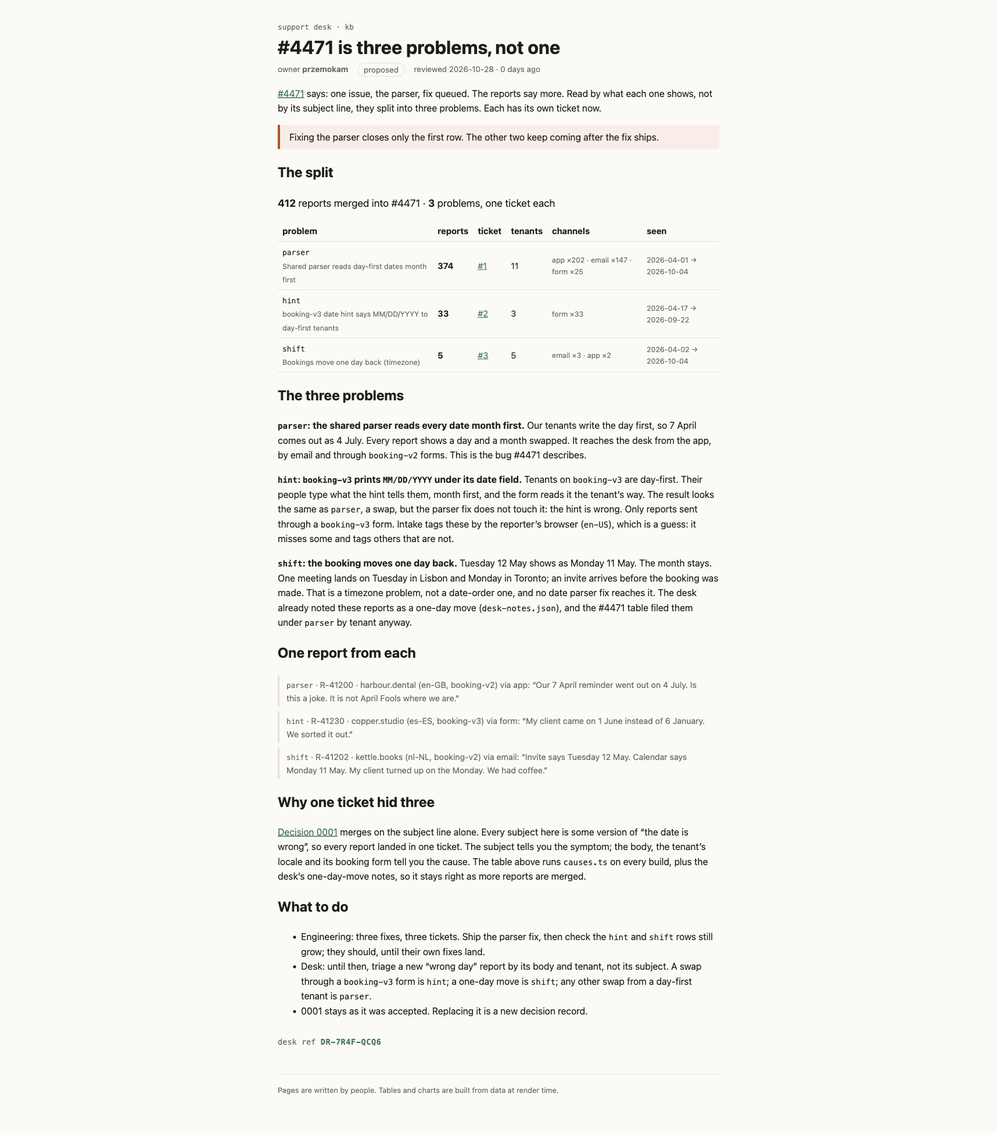
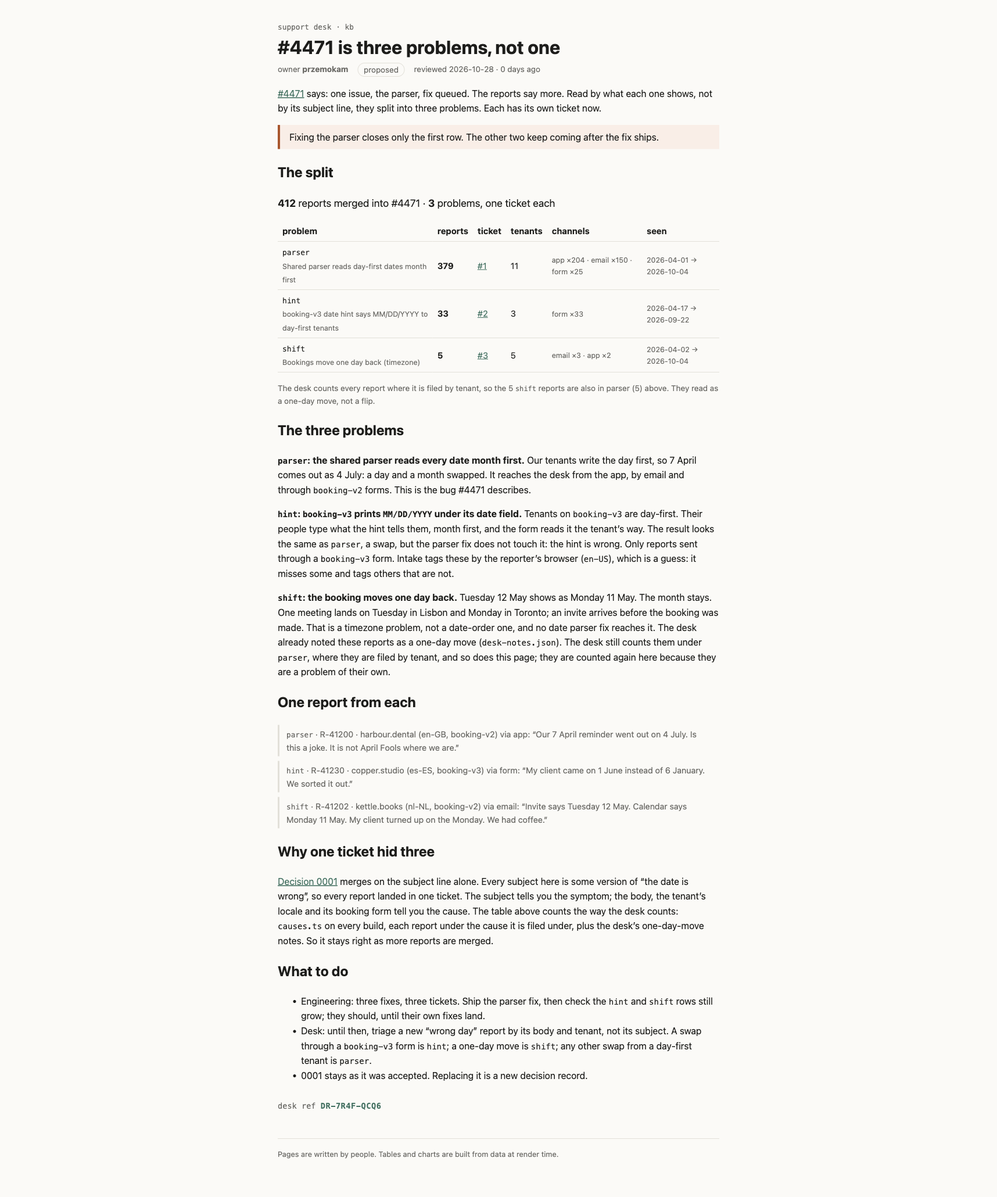
Count #4471 split the way the desk counts (parser 379)

Changed region(s): [[0.278, 0.0308, 0.7104, 0.9231], [0.6486, 0.1846, 0.7104, 0.3385], [0.278, 0.9538, 0.3706, 0.9846]]

diff --git a/rendered/kb/incidents/4471/split/index.html b/rendered/kb/incidents/4471/split/index.html
@@ -9,11 +9,11 @@
 		<link href="../../../../_app/immutable/chunks/B2Ul7l_u.js" rel="modulepreload">
 		<link href="../../../../_app/immutable/chunks/BCPXOG7W.js" rel="modulepreload">
 		<link href="../../../../_app/immutable/chunks/Dh1V97Jm.js" rel="modulepreload">
-		<link href="../../../../_app/immutable/entry/app.BCwEFEkI.js" rel="modulepreload">
+		<link href="../../../../_app/immutable/entry/app.BeCJ2vZF.js" rel="modulepreload">
 		<link href="../../../../_app/immutable/nodes/0.BurGglGN.js" rel="modulepreload">
 		<link href="../../../../_app/immutable/chunks/DK3Fl9T5.js" rel="modulepreload">
-		<link href="../../../../_app/immutable/nodes/5.KMLEdOeV.js" rel="modulepreload">
-		<link href="../../../../_app/immutable/chunks/DQZRbwuU.js" rel="modulepreload">
+		<link href="../../../../_app/immutable/nodes/5.DALyAv9D.js" rel="modulepreload">
+		<link href="../../../../_app/immutable/chunks/CnQlH-gI.js" rel="modulepreload">
 		<link href="../../../../_app/immutable/chunks/BTPwLomz.js" rel="modulepreload">
 		<link href="../../../../_app/immutable/chunks/CVBzP17p.js" rel="modulepreload">
 		<link href="../../../../_app/immutable/chunks/BIy4WKJS.js" rel="modulepreload">
@@ -25,8 +25,9 @@
   <body data-sveltekit-preload-data="hover">
     <div style="display: contents"><!--[--><!--[--><!--[0--><!--[--><!--[--><!--[-1--><!--[--><div class="kb svelte-e2jw2j"><header><a class="crumb svelte-e2jw2j" href="/kb">support desk · kb</a> <h1 class="svelte-e2jw2j">#4471 is three problems, not one</h1> <p class="meta svelte-e2jw2j"><span>owner <b>przemokam</b></span> <span class="status proposed svelte-e2jw2j">proposed</span> <span class="svelte-e2jw2j">reviewed 2026-10-28 · 0 days ago</span></p></header> <!--[-1--><!--]--> <main><p><a href="/kb/incidents/4471">#4471</a> says: one issue, the parser, fix queued. The reports say more.
 Read by what each one shows, not by its subject line, they split into three problems.
-Each has its own ticket now.</p> <aside class="warn svelte-17bri61"><!---->Fixing the parser closes only the first row. The other two keep coming after the fix ships.<!----></aside><!----> <h2>The split</h2> <!--[0--><p class="sum svelte-h3x27m"><strong>412</strong> reports merged into #4471 · <strong>3</strong> problems, one ticket each</p> <table><thead><tr><th>problem</th><th>reports</th><th>ticket</th><th>tenants</th><th>channels</th><th>seen</th></tr></thead><tbody><!--[--><tr class="svelte-h3x27m"><td class="svelte-h3x27m"><code>parser</code><!--[0--><br/><span class="title svelte-h3x27m">Shared parser reads day-first dates month first</span><!--]--></td><td class="svelte-h3x27m"><strong>374</strong></td><td class="svelte-h3x27m"><!--[0--><a href="https://github.com/przemokam/mega-what-it-shows/issues/1">#1</a><!--]--></td><td class="svelte-h3x27m">11</td><td class="small svelte-h3x27m">app ×202 · email ×147 · form ×25</td><td class="small svelte-h3x27m">2026-04-01 → 2026-10-04</td></tr><tr class="svelte-h3x27m"><td class="svelte-h3x27m"><code>hint</code><!--[0--><br/><span class="title svelte-h3x27m">booking-v3 date hint says MM/DD/YYYY to day-first tenants</span><!--]--></td><td class="svelte-h3x27m"><strong>33</strong></td><td class="svelte-h3x27m"><!--[0--><a href="https://github.com/przemokam/mega-what-it-shows/issues/2">#2</a><!--]--></td><td class="svelte-h3x27m">3</td><td class="small svelte-h3x27m">form ×33</td><td class="small svelte-h3x27m">2026-04-17 → 2026-09-22</td></tr><tr class="svelte-h3x27m"><td class="svelte-h3x27m"><code>shift</code><!--[0--><br/><span class="title svelte-h3x27m">Bookings move one day back (timezone)</span><!--]--></td><td class="svelte-h3x27m"><strong>5</strong></td><td class="svelte-h3x27m"><!--[0--><a href="https://github.com/przemokam/mega-what-it-shows/issues/3">#3</a><!--]--></td><td class="svelte-h3x27m">5</td><td class="small svelte-h3x27m">email ×3 · app ×2</td><td class="small svelte-h3x27m">2026-04-02 → 2026-10-04</td></tr><!--]--></tbody></table><!--]--><!----> <h2>The three problems</h2> <p><strong><code>parser</code>: the shared parser reads every date month first.</strong> Our tenants write the day first,
-so 7 April comes out as 4 July. Every report shows a day and a month swapped. It reaches the
+Each has its own ticket now.</p> <aside class="warn svelte-17bri61"><!---->Fixing the parser closes only the first row. The other two keep coming after the fix ships.<!----></aside><!----> <h2>The split</h2> <!--[0--><p class="sum svelte-h3x27m"><strong>412</strong> reports merged into #4471 · <strong>3</strong> problems, one ticket each</p> <table><thead><tr><th>problem</th><th>reports</th><th>ticket</th><th>tenants</th><th>channels</th><th>seen</th></tr></thead><tbody><!--[--><tr class="svelte-h3x27m"><td class="svelte-h3x27m"><code>parser</code><!--[0--><br/><span class="title svelte-h3x27m">Shared parser reads day-first dates month first</span><!--]--></td><td class="svelte-h3x27m"><strong>379</strong></td><td class="svelte-h3x27m"><!--[0--><a href="https://github.com/przemokam/mega-what-it-shows/issues/1">#1</a><!--]--></td><td class="svelte-h3x27m">11</td><td class="small svelte-h3x27m">app ×204 · email ×150 · form ×25</td><td class="small svelte-h3x27m">2026-04-01 → 2026-10-04</td></tr><tr class="svelte-h3x27m"><td class="svelte-h3x27m"><code>hint</code><!--[0--><br/><span class="title svelte-h3x27m">booking-v3 date hint says MM/DD/YYYY to day-first tenants</span><!--]--></td><td class="svelte-h3x27m"><strong>33</strong></td><td class="svelte-h3x27m"><!--[0--><a href="https://github.com/przemokam/mega-what-it-shows/issues/2">#2</a><!--]--></td><td class="svelte-h3x27m">3</td><td class="small svelte-h3x27m">form ×33</td><td class="small svelte-h3x27m">2026-04-17 → 2026-09-22</td></tr><tr class="svelte-h3x27m"><td class="svelte-h3x27m"><code>shift</code><!--[0--><br/><span class="title svelte-h3x27m">Bookings move one day back (timezone)</span><!--]--></td><td class="svelte-h3x27m"><strong>5</strong></td><td class="svelte-h3x27m"><!--[0--><a href="https://github.com/przemokam/mega-what-it-shows/issues/3">#3</a><!--]--></td><td class="svelte-h3x27m">5</td><td class="small svelte-h3x27m">email ×3 · app ×2</td><td class="small svelte-h3x27m">2026-04-02 → 2026-10-04</td></tr><!--]--></tbody></table> <!--[--><p class="small svelte-h3x27m">The desk counts every report where it is filed by tenant, so the 5 <code>shift</code> reports are also
+    in parser (5) above. They read as a one-day move, not a flip.</p><!--]--><!--]--><!----> <h2>The three problems</h2> <p><strong><code>parser</code>: the shared parser reads every date month first.</strong> Our tenants write the day first,
+so 7 April comes out as 4 July: a day and a month swapped. It reaches the
 desk from the app, by email and through <code>booking-v2</code> forms. This is the bug #4471 describes.</p> <p><strong><code>hint</code>: <code>booking-v3</code> prints <code>MM/DD/YYYY</code> under its date field.</strong> Tenants on <code>booking-v3</code> are
 day-first. Their people type what the hint tells them, month first, and the form reads it the
 tenant’s way. The result looks the same as <code>parser</code>, a swap, but the parser fix does not touch
@@ -35,29 +36,31 @@ reporter’s browser (<code>en-US</code>), which is a guess: it misses some and 
 month stays. One meeting lands on Tuesday in Lisbon and Monday in Toronto; an invite arrives
 before the booking was made. That is a timezone problem, not a date-order one, and no date
 parser fix reaches it. The desk already noted these reports as a one-day move
-(<code>desk-notes.json</code>), and the #4471 table filed them under <code>parser</code> by tenant anyway.</p> <h2>One report from each</h2> <!--[-1--><!--[--><blockquote class="svelte-h3x27m"><code>parser</code> · R-41200 · harbour.dental (en-GB, booking-v2) via app:
+(<code>desk-notes.json</code>). The desk still counts them under <code>parser</code>, where they are filed by tenant, and so
+does this page; they are counted again here because they are a problem of their own.</p> <h2>One report from each</h2> <!--[-1--><!--[--><blockquote class="svelte-h3x27m"><code>parser</code> · R-41200 · harbour.dental (en-GB, booking-v2) via app:
       “Our 7 April reminder went out on 4 July. Is this a joke. It is not April Fools where we are.”</blockquote><blockquote class="svelte-h3x27m"><code>hint</code> · R-41230 · copper.studio (es-ES, booking-v3) via form:
       “My client came on 1 June instead of 6 January. We sorted it out.”</blockquote><blockquote class="svelte-h3x27m"><code>shift</code> · R-41202 · kettle.books (nl-NL, booking-v2) via email:
       “Invite says Tuesday 12 May. Calendar says Monday 11 May. My client turned up on the Monday. We had coffee.”</blockquote><!--]--><!--]--><!----> <h2>Why one ticket hid three</h2> <p><a href="/kb/decisions/0001-dedupe-by-subject">Decision 0001</a> merges on the subject line alone.
 Every subject here is some version of “the date is wrong”, so every report landed in one ticket. The
 subject tells you the symptom; the body, the tenant’s locale and its booking form tell you the
-cause. The table above runs <code>causes.ts</code> on every build, plus the desk’s one-day-move notes, so
-it stays right as more reports are merged.</p> <h2>What to do</h2> <ul><li>Engineering: three fixes, three tickets. Ship the parser fix, then check the <code>hint</code> and <code>shift</code> rows still grow; they should, until their own fixes land.</li> <li>Desk: until then, triage a new “wrong day” report by its body and tenant, not its subject.
+cause. The table above counts the way the desk counts: <code>causes.ts</code> on every build, each report
+under the cause it is filed under, plus the desk’s one-day-move notes. So it stays right as more
+reports are merged.</p> <h2>What to do</h2> <ul><li>Engineering: three fixes, three tickets. Ship the parser fix, then check the <code>hint</code> and <code>shift</code> rows still grow; they should, until their own fixes land.</li> <li>Desk: until then, triage a new “wrong day” report by its body and tenant, not its subject.
 A swap through a <code>booking-v3</code> form is <code>hint</code>; a one-day move is <code>shift</code>; any other swap from a
 day-first tenant is <code>parser</code>.</li> <li>0001 stays as it was accepted. Replacing it is a new decision record.</li></ul> <!--[0--><p class="stamp svelte-1280m42">desk ref <b class="svelte-1280m42">DR-7R4F-QCQ6</b></p><!--]--><!----><!----></main> <footer class="svelte-e2jw2j">Pages are written by people. Tables and charts are built from data at render time.</footer></div><!--]--><!--]--><!--]--><!----><!--]--><!--]--><!--]--><!----> <!--[-1--><!--]--><!--]-->
 			
 			<script>
 				{
-					__sveltekit_128iz2t = {
+					__sveltekit_gaf87u = {
 						base: new URL("../../../..", location).pathname.slice(0, -1),
-						version: "1793222955326"
+						version: "1793223802684"
 					};
 
 					const element = document.currentScript.parentElement;
 
 					import("../../../../_app/immutable/entry/start.CH5w6lId.js").then(async (kit) => {
-						kit.init(__sveltekit_128iz2t);
-						const app = await import("../../../../_app/immutable/entry/app.BCwEFEkI.js");
+						kit.init(__sveltekit_gaf87u);
+						const app = await import("../../../../_app/immutable/entry/app.BeCJ2vZF.js");
 						kit.start(app, element, {
 							node_ids: [0, 5],
 							data: [null,null],

diff --git a/rendered/_app/immutable/chunks/CnQlH-gI.js b/rendered/_app/immutable/chunks/CnQlH-gI.js
@@ -1,0 +1,23 @@
+import{t as e}from"./DK3Fl9T5.js";import{E as t,F as n,H as r,I as i,K as a,L as o,N as s,O as c,R as l,S as u,T as d,U as f,W as p,_ as m,c as h,d as g,h as _,k as v,n as y,q as b,r as x,t as S,w as C}from"./BCPXOG7W.js";import{t as w}from"./BTPwLomz.js";import{n as T,t as E}from"./CVBzP17p.js";import{i as D,l as O,r as k,t as A}from"./BIy4WKJS.js";var j=[{problem:`parser`,title:`Shared parser reads day-first dates month first`,issue:1},{problem:`hint`,title:`booking-v3 date hint says MM/DD/YYYY to day-first tenants`,issue:2},{problem:`shift`,title:`Bookings move one day back (timezone)`,issue:3}];function M(e,t,n){let r=t.map(e=>e.receivedAt.slice(0,10)).sort();return{problem:e,reports:t,tenants:[...new Set(t.map(e=>e.tenant))].sort(),channels:t.reduce((e,t)=>({...e,[t.channel]:(e[t.channel]??0)+1}),{}),firstSeen:r[0],lastSeen:r[r.length-1],alsoFiled:e===`shift`?t.reduce((e,t)=>({...e,[n(t)]:(e[n(t)]??0)+1}),{}):{}}}function N(e,t,n,r){let i=O(e).filter(e=>e.mergedInto===t),a=e=>D(e,n(e))??`unplaced`;return{merged:i,groups:[M(`parser`,i.filter(e=>a(e)===`parser`),a),M(`hint`,i.filter(e=>a(e)===`hint`),a),M(`shift`,i.filter(e=>r.includes(e.id)),a),M(`unplaced`,i.filter(e=>a(e)===`unplaced`),a)].filter(e=>e.reports.length>0)}}var P=t(`<br/><span class="title svelte-h3x27m"> </span>`,1),F=t(`<a> </a>`),I=t(`<tr><td class="svelte-h3x27m"><code> </code><!></td><td class="svelte-h3x27m"><strong> </strong></td><td class="svelte-h3x27m"><!></td><td class="svelte-h3x27m"> </td><td class="small svelte-h3x27m"> </td><td class="small svelte-h3x27m"> </td></tr>`),L=t(`<p class="small svelte-h3x27m"> <code>shift</code> </p>`),R=t(`<p class="sum svelte-h3x27m"><strong> </strong> <strong> </strong> </p> <table><thead><tr><th>problem</th><th>reports</th><th>ticket</th><th>tenants</th><th>channels</th><th>seen</th></tr></thead><tbody></tbody></table> <!>`,1),z=t(`<blockquote class="svelte-h3x27m"><code> </code> </blockquote>`);function B(e,t){p(t,!0);let a=y(t,`examples`,3,!1),x=r(()=>N(T,t.ticket,k,E.oneDayMove)),S=e=>j.find(t=>t.problem===e),w=e=>Object.entries(e).sort((e,t)=>t[1]-e[1]).map(([e,t])=>`${e} ×${t}`).join(` · `),D=r(()=>v(x).groups.filter(e=>S(e.problem)).length);var O=d(),A=i(O),M=e=>{var a=R(),d=i(a),f=n(d),p=o(f,!0),y=l(f),T=l(y),E=o(T,!0),O=l(T);b(d);var k=l(d,2),A=l(n(k));_(A,21,()=>v(x).groups,e=>e.problem,(e,t)=>{let a=r(()=>S(v(t).problem));var d=I();let f;var p=n(d),_=n(p),y=o(_,!0),x=l(_),T=e=>{var t=P(),n=l(i(t)),r=o(n,!0);s(()=>u(r,v(a).title)),C(e,t)};m(x,e=>{v(a)&&e(T)}),b(p);var E=l(p),D=n(E),O=o(D,!0);b(E);var k=l(E),A=n(k),j=e=>{var t=F(),n=o(t);s(()=>{h(t,`href`,`https://github.com/przemokam/mega-what-it-shows/issues/${v(a).issue??``}`),u(n,`#${v(a).issue??``}`)}),C(e,t)},M=e=>{var t=c(`none yet`);C(e,t)};m(A,e=>{v(a)?e(j):e(M,-1)}),b(k);var N=l(k),L=o(N,!0),R=l(N),z=o(R,!0),B=l(R),V=o(B);b(d),s(e=>{f=g(d,1,`svelte-h3x27m`,null,f,{unplaced:!v(a)}),u(y,v(t).problem),u(O,v(t).reports.length),u(L,v(t).tenants.length),u(z,e),u(V,`${v(t).firstSeen??``} → ${v(t).lastSeen??``}`)},[()=>w(v(t).channels)]),C(e,d)}),b(A),b(k);var j=l(k,2);_(j,17,()=>v(x).groups.filter(e=>e.problem===`shift`),e=>e.problem,(e,t)=>{var r=L(),i=n(r),a=l(i,2);b(r),s(e=>{u(i,`The desk counts every report where it is filed by tenant, so the ${v(t).reports.length??``} `),u(a,` reports are also
+    in ${e??``} above. They read as a one-day move, not a flip.`)},[()=>Object.entries(v(t).alsoFiled).map(([e,t])=>`${e} (${t})`).join(`, `)]),C(e,r)}),s(()=>{u(p,v(x).merged.length),u(y,` reports merged into #${t.ticket??``} · `),u(E,v(D)),u(O,` ${v(D)===1?`problem`:`problems`}, one ticket each`)}),C(e,a)},B=e=>{var t=d(),a=i(t);_(a,17,()=>v(x).groups,e=>e.problem,(e,t)=>{let i=r(()=>v(t).reports[0]);var a=z(),c=n(a),d=o(c,!0),f=l(c);b(a),s((e,n)=>{u(d,v(t).problem),u(f,` · ${v(i).id??``} · ${v(i).tenant??``} (${e??``}, ${n??``}) via ${v(i).channel??``}:
+      “${v(i).body??``}”`)},[()=>k(v(i))?.locale,()=>k(v(i))?.form]),C(e,a)}),C(e,t)};m(A,e=>{a()?e(B,-1):e(M)}),C(e,O),f()}var V=`0123456789ABCDEFGHJKMNPQRSTVWXYZ`;function H(e,t){let n=t>>>0;for(let t=0;t<e.length;t++)n^=e.charCodeAt(t),n=Math.imul(n,16777619)>>>0;return n}function U(e){let t=e.trim(),n=H(t,2166136261),r=H(t,2654435769),i=BigInt(n)<<8n|BigInt(r&255),a=``;for(let e=0;e<8;e++)a=V[Number(i&31n)]+a,i>>=5n;return`DR-${a.slice(0,4)}-${a.slice(4)}`}var W=t(`<p class="stamp svelte-1280m42">desk ref <b class="svelte-1280m42"> </b></p>`),G=t(`<p class="stamp missing svelte-1280m42">no desk ref: this page isn't signed (no <code>signature</code> in its frontmatter)</p>`);function K(e,t){p(t,!0);let a=r(()=>t.signature?U(t.signature):null);var c=d(),h=i(c),g=e=>{var t=W(),r=l(n(t)),i=o(r,!0);b(t),s(()=>u(i,v(a))),C(e,t)},_=e=>{var t=G();C(e,t)};m(h,e=>{v(a)?e(g):e(_,-1)}),C(e,c),f()}var q=e({default:()=>$,metadata:()=>J}),J={layout:`runbook`,title:`#4471 is three problems, not one`,owner:`przemokam`,status:`proposed`,reviewed:`2026-10-28T00:00:00.000Z`,signature:`Przemek Kamola (przemokam), with Claude Code`},{layout:Y,title:X,owner:ee,status:te,reviewed:ne,signature:Z}=J,Q=t(`<p><a href="/kb/incidents/4471">#4471</a> says: one issue, the parser, fix queued. The reports say more.
+Read by what each one shows, not by its subject line, they split into three problems.
+Each has its own ticket now.</p> <!> <h2>The split</h2> <!> <h2>The three problems</h2> <p><strong><code>parser</code>: the shared parser reads every date month first.</strong> Our tenants write the day first,
+so 7 April comes out as 4 July: a day and a month swapped. It reaches the
+desk from the app, by email and through <code>booking-v2</code> forms. This is the bug #4471 describes.</p> <p><strong><code>hint</code>: <code>booking-v3</code> prints <code>MM/DD/YYYY</code> under its date field.</strong> Tenants on <code>booking-v3</code> are
+day-first. Their people type what the hint tells them, month first, and the form reads it the
+tenant’s way. The result looks the same as <code>parser</code>, a swap, but the parser fix does not touch
+it: the hint is wrong. Only reports sent through a <code>booking-v3</code> form. Intake tags these by the
+reporter’s browser (<code>en-US</code>), which is a guess: it misses some and tags others that are not.</p> <p><strong><code>shift</code>: the booking moves one day back.</strong> Tuesday 12 May shows as Monday 11 May. The
+month stays. One meeting lands on Tuesday in Lisbon and Monday in Toronto; an invite arrives
+before the booking was made. That is a timezone problem, not a date-order one, and no date
+parser fix reaches it. The desk already noted these reports as a one-day move
+(<code>desk-notes.json</code>). The desk still counts them under <code>parser</code>, where they are filed by tenant, and so
+does this page; they are counted again here because they are a problem of their own.</p> <h2>One report from each</h2> <!> <h2>Why one ticket hid three</h2> <p><a href="/kb/decisions/0001-dedupe-by-subject">Decision 0001</a> merges on the subject line alone.
+Every subject here is some version of “the date is wrong”, so every report landed in one ticket. The
+subject tells you the symptom; the body, the tenant’s locale and its booking form tell you the
+cause. The table above counts the way the desk counts: <code>causes.ts</code> on every build, each report
+under the cause it is filed under, plus the desk’s one-day-move notes. So it stays right as more
+reports are merged.</p> <h2>What to do</h2> <ul><li>Engineering: three fixes, three tickets. Ship the parser fix, then check the <code>hint</code> and <code>shift</code> rows still grow; they should, until their own fixes land.</li> <li>Desk: until then, triage a new “wrong day” report by its body and tenant, not its subject.
+A swap through a <code>booking-v3</code> form is <code>hint</code>; a one-day move is <code>shift</code>; any other swap from a
+day-first tenant is <code>parser</code>.</li> <li>0001 stays as it was accepted. Replacing it is a new decision record.</li></ul> <!>`,1);function $(e,t){let n=S(t,[`children`,`$$slots`,`$$events`,`$$legacy`]);w(e,x(()=>n,()=>J,{children:(e,t)=>{var n=Q(),r=l(i(n),2);A(r,{kind:`warn`,children:(e,t)=>{a();var n=c(`Fixing the parser closes only the first row. The other two keep coming after the fix ships.`);C(e,n)},$$slots:{default:!0}});var o=l(r,4);B(o,{ticket:4471});var s=l(o,12);B(s,{ticket:4471,examples:!0}),K(l(s,10),{get signature(){return Z}}),C(e,n)},$$slots:{default:!0}}))}export{$ as n,q as t};

diff --git a/src/lib/kb/split.ts b/src/lib/kb/split.ts
@@ -12,14 +12,9 @@ export const PROBLEMS: readonly { problem: Problem; title: string; issue: number
 
 export const ISSUES = 'https://github.com/przemokam/mega-what-it-shows/issues';
 
-// A report the desk read as a one-day move (desk-notes.json) is not a flip: the day moved, the month
-// did not. That is its own problem, whatever its tenant's form says. Everything else keeps the cause
-// causes.ts gives it.
-export function problemOf(r: Report, t: Tenant | undefined, oneDayMove: readonly string[]): Problem | 'unplaced' {
-  if (oneDayMove.includes(r.id)) return 'shift';
-  return causeOf(r, t) ?? 'unplaced';
-}
-
+// Counted the way the desk counts (CauseTable, desk-notes.json): every report under the cause it is
+// filed under by tenant. A one-day move (desk-notes.json) is its own problem too: the day moved, the
+// month did not. Those reports also stay counted where they are filed, as the desk footnotes them.
 export type ProblemGroup = {
   problem: Problem | 'unplaced';
   reports: Report[];
@@ -27,7 +22,22 @@ export type ProblemGroup = {
   channels: Record<string, number>;
   firstSeen: string;
   lastSeen: string;
+  // For `shift`: how many of its reports are also counted under each filed cause.
+  alsoFiled: Record<string, number>;
 };
+
+function group(problem: ProblemGroup['problem'], rs: Report[], filed: (r: Report) => string): ProblemGroup {
+  const days = rs.map((r) => r.receivedAt.slice(0, 10)).sort();
+  return {
+    problem,
+    reports: rs,
+    tenants: [...new Set(rs.map((r) => r.tenant))].sort(),
+    channels: rs.reduce<Record<string, number>>((n, r) => ({ ...n, [r.channel]: (n[r.channel] ?? 0) + 1 }), {}),
+    firstSeen: days[0],
+    lastSeen: days[days.length - 1],
+    alsoFiled: problem === 'shift' ? rs.reduce<Record<string, number>>((n, r) => ({ ...n, [filed(r)]: (n[filed(r)] ?? 0) + 1 }), {}) : {},
+  };
+}
 
 export function splitTicket(
   all: Report[],
@@ -36,24 +46,12 @@ export function splitTicket(
   oneDayMove: readonly string[],
 ): { merged: Report[]; groups: ProblemGroup[] } {
   const merged = uniqueById(all).filter((r) => r.mergedInto === ticket);
-  const by = new Map<ProblemGroup['problem'], Report[]>();
-  for (const r of merged) {
-    const p = problemOf(r, tenantOf(r), oneDayMove);
-    by.set(p, [...(by.get(p) ?? []), r]);
-  }
-  const order = [...PROBLEMS.map((p) => p.problem), 'unplaced'];
-  const groups = [...by.entries()]
-    .map(([problem, rs]) => {
-      const days = rs.map((r) => r.receivedAt.slice(0, 10)).sort();
-      return {
-        problem,
-        reports: rs,
-        tenants: [...new Set(rs.map((r) => r.tenant))].sort(),
-        channels: rs.reduce<Record<string, number>>((n, r) => ({ ...n, [r.channel]: (n[r.channel] ?? 0) + 1 }), {}),
-        firstSeen: days[0],
-        lastSeen: days[days.length - 1],
-      };
-    })
-    .sort((a, b) => order.indexOf(a.problem) - order.indexOf(b.problem));
-  return { merged, groups };
+  const filed = (r: Report) => causeOf(r, tenantOf(r)) ?? 'unplaced';
+  const groups = [
+    group('parser', merged.filter((r) => filed(r) === 'parser'), filed),
+    group('hint', merged.filter((r) => filed(r) === 'hint'), filed),
+    group('shift', merged.filter((r) => oneDayMove.includes(r.id)), filed),
+    group('unplaced', merged.filter((r) => filed(r) === 'unplaced'), filed),
+  ];
+  return { merged, groups: groups.filter((g) => g.reports.length > 0) };
 }

diff --git a/rendered/_app/immutable/nodes/2.CABhyONg.js b/rendered/_app/immutable/nodes/2.CABhyONg.js
@@ -1,0 +1,2 @@
+import{E as e,F as t,I as n,K as r,L as i,N as a,R as o,S as s,U as c,W as l,c as u,d,h as f,i as p,k as m,q as h,r as g,t as _,w as v}from"../chunks/BCPXOG7W.js";import{n as y,r as b,t as x}from"../chunks/BTPwLomz.js";import{t as S}from"../chunks/YX22L_Ud.js";import{t as C}from"../chunks/CgeRC4yK.js";import{t as w}from"../chunks/CnQlH-gI.js";import{t as T}from"../chunks/BGqJVSDw.js";var E=e(`<tr><td><a> </a></td><td> </td><td> </td><td> </td></tr>`),D=e(`<table><thead><tr><th>page</th><th>owner</th><th>status</th><th>reviewed</th></tr></thead><tbody></tbody></table>`);function O(e,n){l(n,!1);let r=Object.entries(Object.assign({"/src/routes/kb/decisions/0001-dedupe-by-subject/+page.svx":S,"/src/routes/kb/incidents/4471/+page.svx":C,"/src/routes/kb/incidents/4471/split/+page.svx":w,"/src/routes/kb/triage/dedupe/+page.svx":T})).map(([e,t])=>({href:e.replace(`/src/routes`,``).replace(`/+page.svx`,``),...t.metadata})).sort((e,t)=>e.href.localeCompare(t.href));p();var g=D(),_=o(t(g));f(_,5,()=>r,e=>e.href,(e,n)=>{var r=E(),c=t(r),l=t(c),f=i(l,!0);h(c);var p=o(c),g=i(p,!0),_=o(p),x=i(_,!0),S=o(_);let C;var w=i(S,!0);h(r),a((e,t)=>{u(l,`href`,m(n).href),s(f,m(n).title),s(g,m(n).owner),s(x,m(n).status),C=d(S,1,`svelte-tbc1ha`,null,C,{stale:e}),s(w,t)},[()=>y(m(n).reviewed)>180,()=>b(m(n).reviewed)]),v(e,r)}),h(_),h(g),v(e,g),c()}var k={layout:`runbook`,title:`Support knowledge base`,owner:`support desk`,status:`living`,reviewed:`2026-09-28T00:00:00.000Z`},{layout:A,title:j,owner:M,status:N,reviewed:P}=k,F=e(`<p>What the support desk knows, kept next to the code that knows it. One desk, every product: <code>sched-prod</code> (calendar invites for about 300k people) and the rest. When something breaks, the reports land here first.</p> <p>Start with <a href="/kb/triage/dedupe">triage</a> if you are new on the desk.</p> <h2>Pages</h2> <!> <h2>Writing a page</h2> <p>Keep the words here and the logic in <code>src/lib</code>. A number that can be computed should be
+computed by a component, not typed into a paragraph.</p>`,1);function I(e,t){let i=_(t,[`children`,`$$slots`,`$$events`,`$$legacy`]);x(e,g(()=>i,()=>k,{children:(e,t)=>{var i=F();O(o(n(i),6),{}),r(4),v(e,i)},$$slots:{default:!0}}))}export{I as component};

diff --git a/rendered/kb/index.html b/rendered/kb/index.html
@@ -9,16 +9,16 @@
 		<link href="../_app/immutable/chunks/B2Ul7l_u.js" rel="modulepreload">
 		<link href="../_app/immutable/chunks/BCPXOG7W.js" rel="modulepreload">
 		<link href="../_app/immutable/chunks/Dh1V97Jm.js" rel="modulepreload">
-		<link href="../_app/immutable/entry/app.BCwEFEkI.js" rel="modulepreload">
+		<link href="../_app/immutable/entry/app.BeCJ2vZF.js" rel="modulepreload">
 		<link href="../_app/immutable/nodes/0.BurGglGN.js" rel="modulepreload">
 		<link href="../_app/immutable/chunks/DK3Fl9T5.js" rel="modulepreload">
-		<link href="../_app/immutable/nodes/2.B_ET221c.js" rel="modulepreload">
+		<link href="../_app/immutable/nodes/2.CABhyONg.js" rel="modulepreload">
 		<link href="../_app/immutable/chunks/BTPwLomz.js" rel="modulepreload">
 		<link href="../_app/immutable/chunks/YX22L_Ud.js" rel="modulepreload">
 		<link href="../_app/immutable/chunks/CgeRC4yK.js" rel="modulepreload">
 		<link href="../_app/immutable/chunks/CVBzP17p.js" rel="modulepreload">
 		<link href="../_app/immutable/chunks/BIy4WKJS.js" rel="modulepreload">
-		<link href="../_app/immutable/chunks/DQZRbwuU.js" rel="modulepreload">
+		<link href="../_app/immutable/chunks/CnQlH-gI.js" rel="modulepreload">
 		<link href="../_app/immutable/chunks/BGqJVSDw.js" rel="modulepreload">
 		<!--e2jw2j--><!----><title>Support knowledge base · support kb</title>
 		<link href="../_app/immutable/assets/runbook.COyw0cbZ.css" rel="stylesheet">
@@ -34,16 +34,16 @@ computed by a component, not typed into a paragraph.</p><!----></main> <footer c
 			
 			<script>
 				{
-					__sveltekit_128iz2t = {
+					__sveltekit_gaf87u = {
 						base: new URL("..", location).pathname.slice(0, -1),
-						version: "1793222955326"
+						version: "1793223802684"
 					};
 
 					const element = document.currentScript.parentElement;
 
 					import("../_app/immutable/entry/start.CH5w6lId.js").then(async (kit) => {
-						kit.init(__sveltekit_128iz2t);
-						const app = await import("../_app/immutable/entry/app.BCwEFEkI.js");
+						kit.init(__sveltekit_gaf87u);
+						const app = await import("../_app/immutable/entry/app.BeCJ2vZF.js");
 						kit.start(app, element, {
 							node_ids: [0, 2],
 							data: [null,null],

diff --git a/rendered/_app/immutable/entry/app.BeCJ2vZF.js b/rendered/_app/immutable/entry/app.BeCJ2vZF.js
@@ -1,0 +1,2 @@
+const __vite__mapDeps=(i,m=__vite__mapDeps,d=(m.f||(m.f=["../nodes/0.BurGglGN.js","../chunks/DK3Fl9T5.js","../chunks/BCPXOG7W.js","../nodes/1.mOwa9YdW.js","../chunks/Dh1V97Jm.js","./payload.DSmR2FwN.js","../nodes/2.CABhyONg.js","../chunks/BTPwLomz.js","../assets/runbook.COyw0cbZ.css","../chunks/YX22L_Ud.js","../chunks/CgeRC4yK.js","../chunks/CVBzP17p.js","../chunks/BIy4WKJS.js","../assets/Callout.AbLv9dM_.css","../assets/_page.D56XP2ro.css","../chunks/CnQlH-gI.js","../assets/_page.B0ht7lrD.css","../chunks/BGqJVSDw.js","../assets/_page.DO6Yid7X.css","../assets/2.Bt0MwIZg.css","../nodes/3.DRxPfvn3.js","../nodes/4.rt2PfD_4.js","../nodes/5.DALyAv9D.js","../nodes/6.sFtxrtyV.js"])))=>i.map(i=>d[i]);
+import{t as e}from"../chunks/CRzLMJPS.js";var t={},n=[()=>e(()=>import(`../nodes/0.BurGglGN.js`),__vite__mapDeps([0,1,2]),import.meta.url),()=>e(()=>import(`../nodes/1.mOwa9YdW.js`),__vite__mapDeps([3,2,4,5]),import.meta.url),()=>e(()=>import(`../nodes/2.CABhyONg.js`),__vite__mapDeps([6,2,7,8,9,1,10,11,12,13,14,15,16,17,18,19]),import.meta.url),()=>e(()=>import(`../nodes/3.DRxPfvn3.js`),__vite__mapDeps([20,9,1,2,7,8]),import.meta.url),()=>e(()=>import(`../nodes/4.rt2PfD_4.js`),__vite__mapDeps([21,10,1,2,7,8,11,12,13,14]),import.meta.url),()=>e(()=>import(`../nodes/5.DALyAv9D.js`),__vite__mapDeps([22,15,1,2,7,8,11,12,13,16]),import.meta.url),()=>e(()=>import(`../nodes/6.sFtxrtyV.js`),__vite__mapDeps([23,17,1,2,7,8,12,13,18]),import.meta.url)],r=[],i={"/kb":[2],"/kb/decisions/0001-dedupe-by-subject":[3],"/kb/incidents/4471":[4],"/kb/incidents/4471/split":[5],"/kb/triage/dedupe":[6]},a={handleError:(({kind:e,error:t})=>{e===`unknown`&&console.error(t)}),reroute:(()=>{}),transport:{}},o=Object.fromEntries(Object.entries(a.transport).map(([e,t])=>[e,t.decode])),s=Object.fromEntries(Object.entries(a.transport).map(([e,t])=>[e,t.encode])),c=!1,l=(e,t)=>o[e](t),u=()=>e(()=>import(`../chunks/Bjy-W4x2.js`).then(e=>e.default),[],import.meta.url);export{l as decode,o as decoders,i as dictionary,s as encoders,u as get_error_template,c as hash,a as hooks,t as matchers,n as nodes,r as server_loads};

diff --git a/rendered/kb/decisions/0001-dedupe-by-subject/index.html b/rendered/kb/decisions/0001-dedupe-by-subject/index.html
@@ -9,7 +9,7 @@
 		<link href="../../../_app/immutable/chunks/B2Ul7l_u.js" rel="modulepreload">
 		<link href="../../../_app/immutable/chunks/BCPXOG7W.js" rel="modulepreload">
 		<link href="../../../_app/immutable/chunks/Dh1V97Jm.js" rel="modulepreload">
-		<link href="../../../_app/immutable/entry/app.BCwEFEkI.js" rel="modulepreload">
+		<link href="../../../_app/immutable/entry/app.BeCJ2vZF.js" rel="modulepreload">
 		<link href="../../../_app/immutable/nodes/0.BurGglGN.js" rel="modulepreload">
 		<link href="../../../_app/immutable/chunks/DK3Fl9T5.js" rel="modulepreload">
 		<link href="../../../_app/immutable/nodes/3.DRxPfvn3.js" rel="modulepreload">
@@ -26,16 +26,16 @@ engineering merges them later.</li></ul><!----></main> <footer class="svelte-e2j
 			
 			<script>
 				{
-					__sveltekit_128iz2t = {
+					__sveltekit_gaf87u = {
 						base: new URL("../../..", location).pathname.slice(0, -1),
-						version: "1793222955326"
+						version: "1793223802684"
 					};
 
 					const element = document.currentScript.parentElement;
 
 					import("../../../_app/immutable/entry/start.CH5w6lId.js").then(async (kit) => {
-						kit.init(__sveltekit_128iz2t);
-						const app = await import("../../../_app/immutable/entry/app.BCwEFEkI.js");
+						kit.init(__sveltekit_gaf87u);
+						const app = await import("../../../_app/immutable/entry/app.BeCJ2vZF.js");
 						kit.start(app, element, {
 							node_ids: [0, 3],
 							data: [null,null],

diff --git a/rendered/kb/incidents/4471/index.html b/rendered/kb/incidents/4471/index.html
@@ -9,7 +9,7 @@
 		<link href="../../../_app/immutable/chunks/B2Ul7l_u.js" rel="modulepreload">
 		<link href="../../../_app/immutable/chunks/BCPXOG7W.js" rel="modulepreload">
 		<link href="../../../_app/immutable/chunks/Dh1V97Jm.js" rel="modulepreload">
-		<link href="../../../_app/immutable/entry/app.BCwEFEkI.js" rel="modulepreload">
+		<link href="../../../_app/immutable/entry/app.BeCJ2vZF.js" rel="modulepreload">
 		<link href="../../../_app/immutable/nodes/0.BurGglGN.js" rel="modulepreload">
 		<link href="../../../_app/immutable/chunks/DK3Fl9T5.js" rel="modulepreload">
 		<link href="../../../_app/immutable/nodes/4.rt2PfD_4.js" rel="modulepreload">
@@ -29,16 +29,16 @@ first. The fix is queued.</p> <aside class="note svelte-17bri61"><!---->Known. O
 			
 			<script>
 				{
-					__sveltekit_128iz2t = {
+					__sveltekit_gaf87u = {
 						base: new URL("../../..", location).pathname.slice(0, -1),
-						version: "1793222955326"
+						version: "1793223802684"
 					};
 
 					const element = document.currentScript.parentElement;
 
 					import("../../../_app/immutable/entry/start.CH5w6lId.js").then(async (kit) => {
-						kit.init(__sveltekit_128iz2t);
-						const app = await import("../../../_app/immutable/entry/app.BCwEFEkI.js");
+						kit.init(__sveltekit_gaf87u);
+						const app = await import("../../../_app/immutable/entry/app.BeCJ2vZF.js");
 						kit.start(app, element, {
 							node_ids: [0, 4],
 							data: [null,null],

diff --git a/rendered/kb/triage/dedupe/index.html b/rendered/kb/triage/dedupe/index.html
@@ -9,7 +9,7 @@
 		<link href="../../../_app/immutable/chunks/B2Ul7l_u.js" rel="modulepreload">
 		<link href="../../../_app/immutable/chunks/BCPXOG7W.js" rel="modulepreload">
 		<link href="../../../_app/immutable/chunks/Dh1V97Jm.js" rel="modulepreload">
-		<link href="../../../_app/immutable/entry/app.BCwEFEkI.js" rel="modulepreload">
+		<link href="../../../_app/immutable/entry/app.BeCJ2vZF.js" rel="modulepreload">
 		<link href="../../../_app/immutable/nodes/0.BurGglGN.js" rel="modulepreload">
 		<link href="../../../_app/immutable/chunks/DK3Fl9T5.js" rel="modulepreload">
 		<link href="../../../_app/immutable/nodes/6.sFtxrtyV.js" rel="modulepreload">
@@ -29,16 +29,16 @@ anything else.<!----></aside><!----> <h2>Try it</h2> <div class="try svelte-gq0h
 			
 			<script>
 				{
-					__sveltekit_128iz2t = {
+					__sveltekit_gaf87u = {
 						base: new URL("../../..", location).pathname.slice(0, -1),
-						version: "1793222955326"
+						version: "1793223802684"
 					};
 
 					const element = document.currentScript.parentElement;
 
 					import("../../../_app/immutable/entry/start.CH5w6lId.js").then(async (kit) => {
-						kit.init(__sveltekit_128iz2t);
-						const app = await import("../../../_app/immutable/entry/app.BCwEFEkI.js");
+						kit.init(__sveltekit_gaf87u);
+						const app = await import("../../../_app/immutable/entry/app.BeCJ2vZF.js");
 						kit.start(app, element, {
 							node_ids: [0, 6],
 							data: [null,null],

diff --git a/src/lib/kb/ProblemSplit.svelte b/src/lib/kb/ProblemSplit.svelte
@@ -42,6 +42,13 @@
     {/each}
   </tbody>
 </table>
+
+{#each split.groups.filter((g) => g.problem === 'shift') as g (g.problem)}
+  <p class="small">
+    The desk counts every report where it is filed by tenant, so the {g.reports.length} <code>shift</code> reports are also
+    in {Object.entries(g.alsoFiled).map(([c, n]) => `${c} (${n})`).join(', ')} above. They read as a one-day move, not a flip.
+  </p>
+{/each}
 {:else}
   {#each split.groups as g (g.problem)}
     {@const r = g.reports[0]}

diff --git a/rendered/_app/immutable/nodes/5.DALyAv9D.js b/rendered/_app/immutable/nodes/5.DALyAv9D.js
@@ -1,0 +1,1 @@
+export{n as component}from"../chunks/CnQlH-gI.js";
